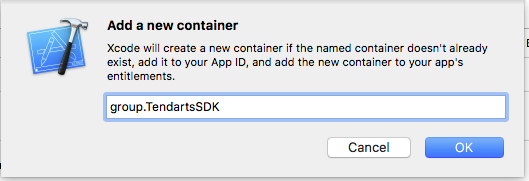
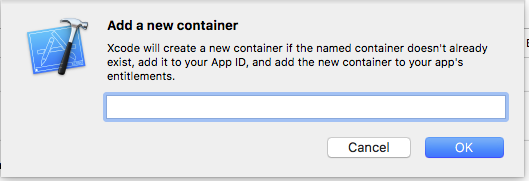
updated group name

Changed region(s): [[0.1815, 0.5525, 0.4234, 0.6354]]

diff --git a/tutorials/ios/setup.rst b/tutorials/ios/setup.rst
@@ -37,12 +37,12 @@ In your App project Capabilities, enable App groups and add a new one.
 .. figure:: /_static/images/iosPC1.png
    :alt: New group
 
-When prompted put ``group.TendartsSDK`` as name, it's important that you use this name,
+When prompted put your group name
 
 .. figure:: /_static/images/iosPC2.png
    :alt: New group
 
-In your Service Extension capabilities enable App groups and add the ``group.TendartsSDK`` group.
+In your Service Extension capabilities enable App groups and add the same group name you just have entered.
 
 Replace the contents of NotificationService with:
 
@@ -68,7 +68,7 @@ Replace the contents of NotificationService with:
         self.contentHandler = contentHandler;
         self.bestAttemptContent = [request.content mutableCopy];
 
-        [TendartsSDK didReceiveNotificationRequest:request withContentHandler:contentHandler  withApiKey:@"api_key"];
+        [TendartsSDK didReceiveNotificationRequest:request withContentHandler:contentHandler  withApiKey:@"api_key"  andSharedGroup:@"group_name"];
 
      }
 
@@ -96,7 +96,7 @@ Replace the contents of NotificationService with:
             self.contentHandler = contentHandler
             bestAttemptContent = (request.content.mutableCopy() as? UNMutableNotificationContent)
 
-            TendartsSDK.didReceive(request, withContentHandler: contentHandler, withApiKey: "api_key")
+            TendartsSDK.didReceive(request, withContentHandler: contentHandler, withApiKey: "api_key" , andSharedGroup: "group_name")
 
         }
 
@@ -111,7 +111,7 @@ Replace the contents of NotificationService with:
 
     }
 
-Replace ``api_key`` with your Api Key
+Replace ``api_key`` with your Api Key and ``group_name`` with your group name
 
 .. note::
 
@@ -148,7 +148,7 @@ Configure the application
 
     #import <TendartsSDK.h>
     ...
-    [TendartsSDK initTendartsUsingLaunchOptions:launchOptions withAPIKey:@"api_key" andConfig:nil];
+    [TendartsSDK initTendartsUsingLaunchOptions:launchOptions withAPIKey:@"api_key" andConfig:nil andSharedGroup: @"group_name"];
 
 **Swift**
 
@@ -156,11 +156,11 @@ Configure the application
 
     import TendartsSDK
     ...
-    TendartsSDK.initTendarts(launchOptions: launchOptions, withAPIKey: "api_key", andConfig: nil);
+    TendartsSDK.initTendarts(launchOptions: launchOptions, withAPIKey: "api_key", andConfig: nil, andSharedGroup:"group_name");
 
 
 
-Replace ``api_key`` with your Api Key
+Replace ``api_key`` with your Api Key and ``group_name`` with your group name
 
 
 4. Add description strings on the app Info.plist
